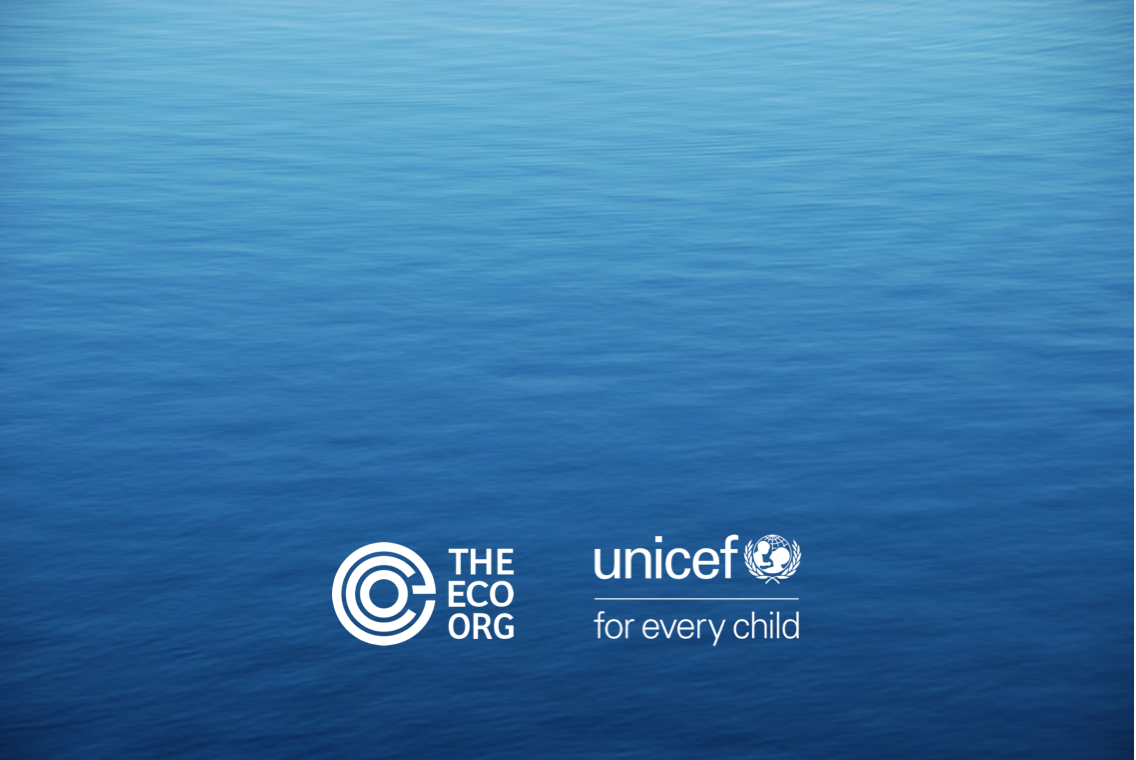
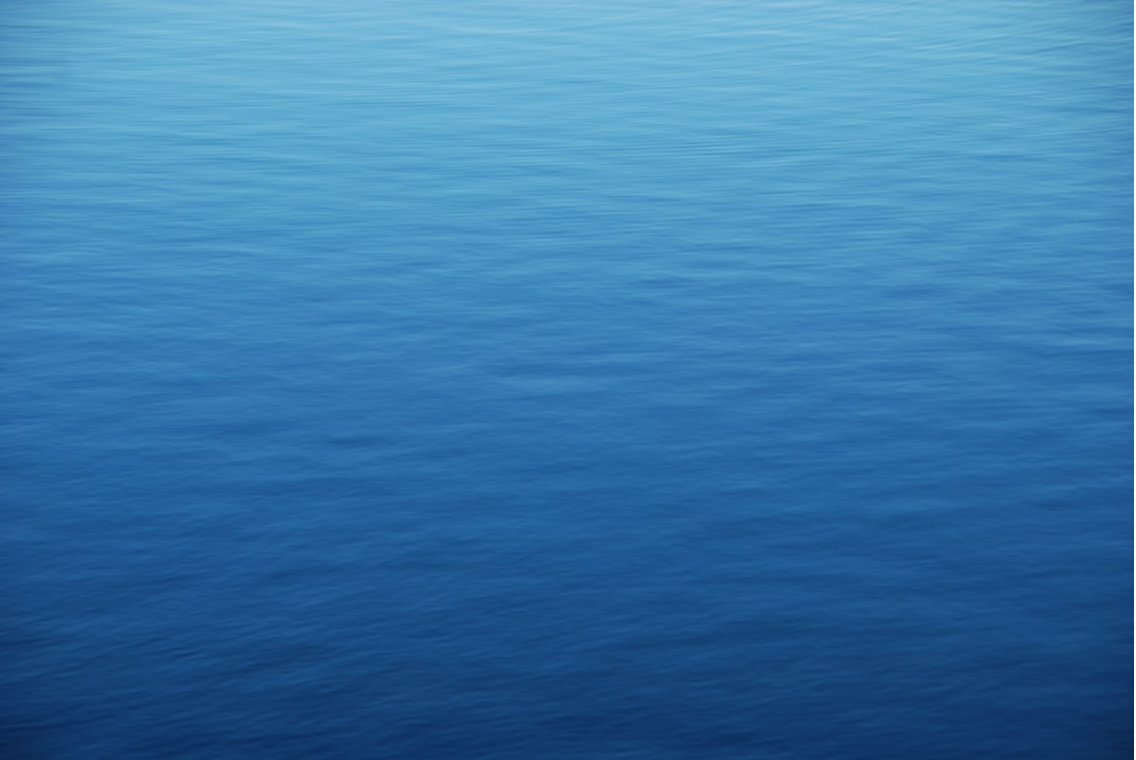
updates

Changed region(s): [[0.2773, 0.6961, 0.4621, 0.8474], [0.5238, 0.6961, 0.7086, 0.8474]]

diff --git a/press-release.html b/press-release.html
@@ -156,24 +156,16 @@
     </div>
     </div>
     <div id="ocean">
-    <img id="ecounicef" src="img/eco_unicef.png" />
+    
     </div>
     <div class="section">
         <h1 class="heading">The Eco Org and UNICEF launch an initiative for young people to help address climate change through innovation</h1>
         <p class="date">29 May 2022</p>
-        <p>The Eco Org and UNICEF have partnered to launch an initiative for young people that encourages climate innovation – the initiative will include a set of protocols for engaging young people, technologists, private sector, and civil society in problem-solving.</p>
-        <p>The journey from Innovation to entrepreneurship requires support from various industry experts and other stakeholders. It needs to create a culture that embraces experimentation, and constantly evaluates and recognizes problems as opportunities for designing a novel solution.</p>
-        <p>The following four stages will be covered by the initiative, which are seen as important for the journey of any typical entrepreneurship:</p>
-        <h5>Climate Innovation Challenge</h5>
-        <p>Young people hold the empathy, power, and ingenuity to solve problems around climate change, the world, and everywhere in between. The Climate Innovation Challenge allows young people (aged 24 and under) to share, develop, and test their ideas to address the challenges that come with climate change. </p>
-        <h5>Climate Innovation Lab</h5>
-        <p>Climate Innovation Lab combines the learning and networking of traditional workshops, with the creativity and interaction of a hackathon, all with tangible results that are geared for impact and scale. Labs don’t just train activists, they give them an opportunity to build usable skills and translate their ideas into real initiatives that can make a difference in the fight against climate change.</p>
-        <h5>Incubator</h5>
-        <p>A business incubator is a workspace created to offer startups and new ventures access to the resources they need, all under one roof. In addition to a desk or office, incubators often provide resident companies with access to expert advisors, mentors, administrative support, office equipment, training, and/or potential investors.</p>
-        <h5>Accelerator</h5>
-        <p>An accelerator is a fixed time cohort based program that provides developing companies access to mentorship, investors and other support that help them become stable, self-sufficient businesses.</p>
-        <p>The curriculum for the program will be developed with The Eco Org’s Island Lab, together with its network of international experts in entrepreneurship, sustainable design, and research. </p>
+        <p>The Eco Org, in partnership with UNICEF, launched an initiative for young people that encourages climate innovation in Maldives. Maldives urgently requires climate solutions, as the current rates of global warming could make 80% of Maldives uninhabitable in the near future.</p>
+        <p>Through this program, Young people will be given opportunity to develop innovative ideas on Climate change through various hackathons and workshops. To further nurture these ideas, a ‘Climate Innovation Lab’ is also being developed in partnership with other agencies, where young people will be given tools, equipment and mentorship support. In this facility, it is anticipated that the young people will be able to develop, test and innovate climate solutions for the country.</p>
+        <p>The curriculum for the program will be developed using the experience of Eco Org’s Island Lab, together with its network of international experts. Discussions with department of Climate Change, Education and National Skills Development Authority will be initiated to bring synergy between similar initiatives.</p>
         <p>The Island Lab started off as an initiative by The Eco Org in 2021, designed to raise awareness for new technologies, and provide support for innovators working on solutions for climate change. The Eco Org previously partnered with UAL: Central Saint Martins and Ooredoo Maldives to launch programs under The Island Lab.</p>
+        <p>Contact: <br/> +960 9697879 <br/> i@theislandlab.com</p>
         <p><a class="program-btn" href="unicef.html">Learn more</a></p>
       </div>
       <div class="row sub-section">

diff --git a/index.html b/index.html
@@ -126,6 +126,13 @@
       .pressrelease:hover {
         color: black;
       }
+      .project-highlight {
+        text-decoration: none;
+        color: black;
+      }
+      .project-highlight:hover {
+        color: black;
+      }
     </style>
 
     <link rel="stylesheet" href="styles/main.css" />
@@ -150,10 +157,10 @@
           <h1 id="typeface">The <br /> Island <br /> Lab</h1>
         </div>
         <div class="col-md-6 col-12">
-          <a href="unicef.html">
+          <a class="project-highlight" href="unicef.html">
             <img class="img-fluid" src="img/banner.png" />
+            <h5 class="climate-heading">Climate Innovation Program by The Eco Org and UNICEF</h5>
           </a>
-          <h5 class="climate-heading">Climate Innovation Program by The Eco Org and UNICEF</h5>
           <a class="pressrelease" href="press-release.html">Press release</a>
         </div>
       </div>
@@ -227,8 +234,8 @@
       </div>
       <div class="row sub-section">
         <div class="col-md-4 col-12 highlight">
-          <img class="img-fluid" src="img/eatolls.png" />
-          <h5>MA Biodesign at Central Saint Martins, University of the Arts London</h5>
+          <a class="project-highlight" href="eatolls.html"><img class="img-fluid" src="img/eatolls.png" />
+          <h5>MA Biodesign at Central Saint Martins, University of the Arts London</h5></a>
         </div>
         <div class="col-md-4 col-12 highlight">
           <img class="img-fluid" src="img/roboy.jpg" />
@@ -383,7 +390,7 @@
           </div>
         </div>
       </div>
-      <div class="row sub-section" id="spaces">
+      <!-- <div class="row sub-section" id="spaces">
         <h1>Spaces we work with</h1>
       </div>
       <div class="row sub-section">
@@ -395,7 +402,7 @@
           <img class="img-fluid" src="img/banyan.jpg" />
           <h5>Banyan Tree Marine Labs</h5>
         </div>
-      </div>
+      </div>-->
       <div class="row section">
         <h1>Brands we have worked with</h1>
         <img class="brands img-fluid d-none d-md-block" src="img/brands.png" />

diff --git a/unicef.html b/unicef.html
@@ -107,6 +107,10 @@
       a:hover {
         color: black;
       }
+      .imagec {
+        font-size: 12px;
+        color: #ccc;
+      }
     </style>
 
     <link rel="stylesheet" href="styles/main.css" />
@@ -127,7 +131,7 @@
         </div>
       </div>
       <div id="ocean">
-        <img id="ecounicef" src="img/eco_unicef.png" />
+       
       </div>
       <div class="section">
         <h1>Climate Innovation Program</h1>
@@ -190,10 +194,20 @@
           <h5>Blockchain</h5>
         </div>
       </div>
+      <div class="row imagec">
+        <p>* Not available on site</p>
+        <p>Images Copyright:</p>
+        <p>1. Precious Plastic <br/>
+          2. Creality<br/>
+          3. Mayku<br/>
+          4. Torqeedo<br/>
+          5. Oculus
+        </p>
+      </div>
       <div class="row section" id="spaces">
         <h1>Labs</h1>
       </div>
-      <div class="row sub-section">
+      <!-- <div class="row sub-section">
         <div class="col-md-6 col-12 space">
           <img class="img-fluid" src="img/themakerspace.jpg" />
           <h5>The Makerspace</h5>
@@ -202,7 +216,7 @@
           <img class="img-fluid" src="img/banyan.jpg" />
           <h5>Banyan Tree Marine Labs</h5>
         </div>
-      </div>
+      </div> -->
       <div class="section" id="projects">
         <h1>Events</h1>
         <p class="events">No upcoming events</p>

diff --git a/projects.html b/projects.html
@@ -155,7 +155,7 @@
       <div class="row main-header">
         <div class="col-md-6 col-12">
           <h1 id="typeface">The <br /> Island <br /> Lab</h1>
-          <h3>Projects we have supported</h3>
+          <h3>Projects</h3>
         </div>
         <div class="col-md-6 col-12">
           <a class="project-item" href="eatolls.html">
@@ -165,6 +165,11 @@
             <p>By students of MA Biodesign from Central Saint Martins | University of the Arts London</p>
           </a>
         </div>
+      </div>
+      <div class="row section">
+        <div class="col-4">MA Biodesign</div>
+        <div class="col-4">Roboy</div>
+        <div class="col-4">Island Sessions Online</div>
       </div>
 
       <div class="row sub-section">

diff --git a/contact.html b/contact.html
@@ -113,7 +113,7 @@
         margin-top: 24px;
       }
       .island {
-        font-size: 42px;
+        font-size: 36px;
         text-decoration: none;
         color: black;
       }
